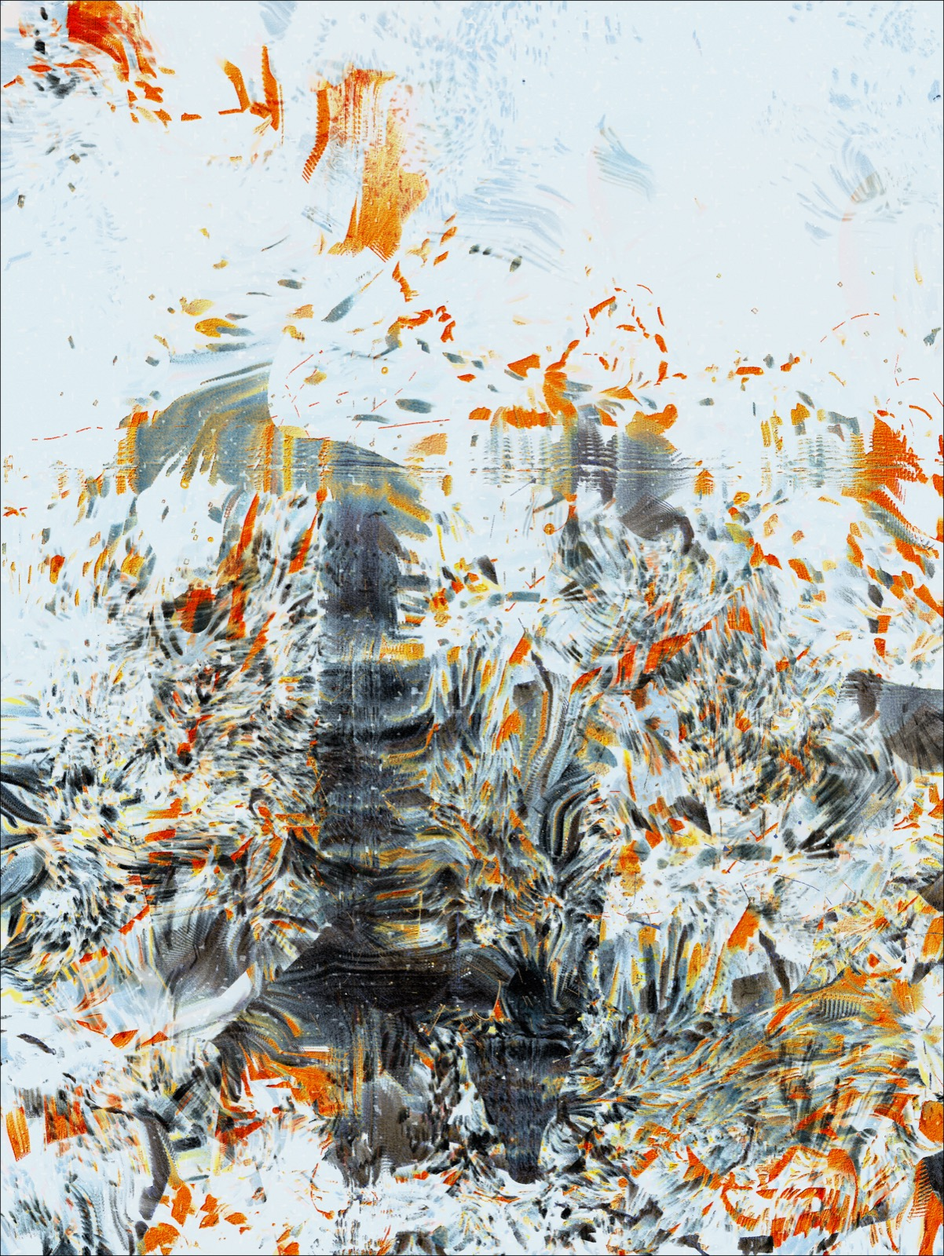
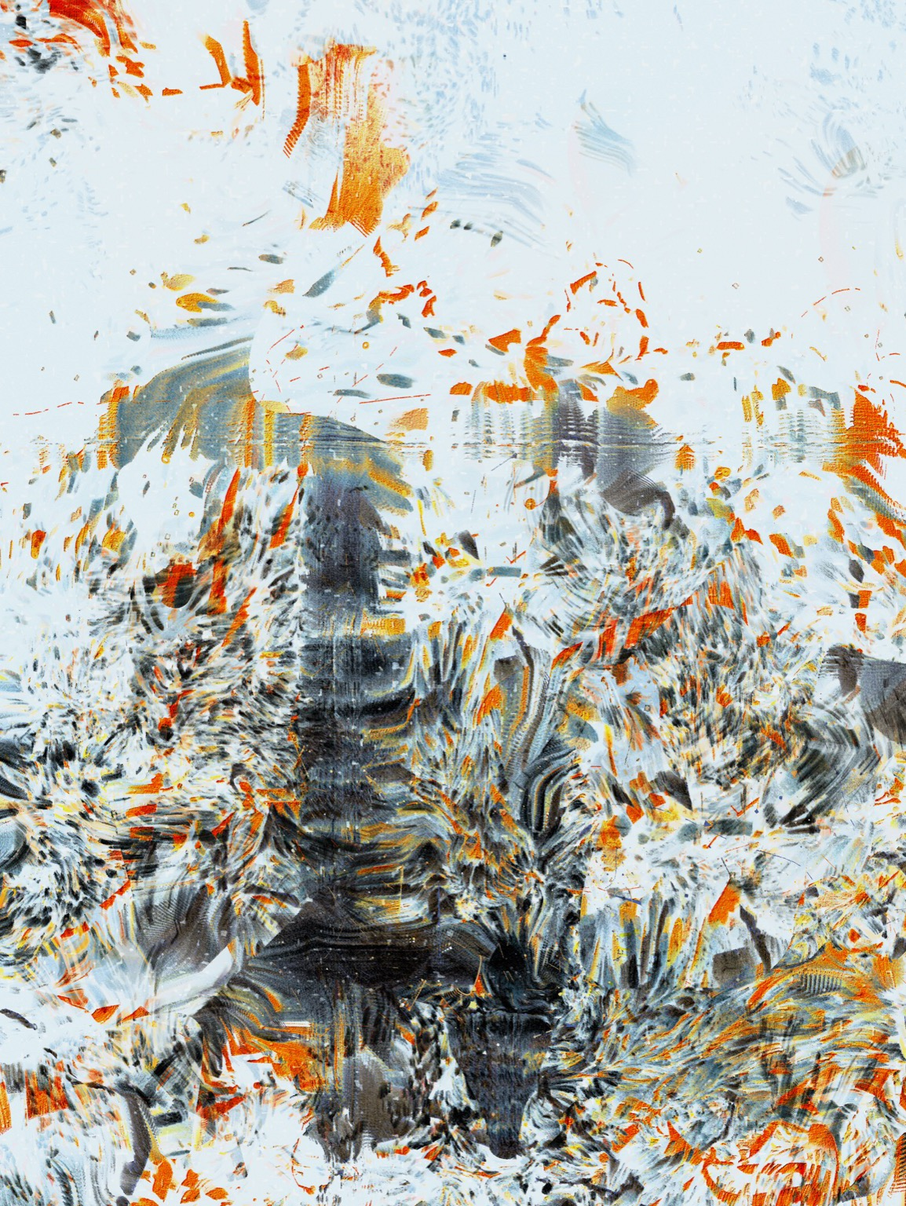
Hero polish: flat backdrop, 900ms arrow slide-in, less moire on detail
- Backdrop: dropped the radial gradients in favour of flat tones
  (#0c0c10 dark / #ece8de paper). The ambient-lighting effect that
  lingered through the palette iterations is gone; the wall reads
  as wall, not as a spot-lit stage. Theme transition still animates
  background-color between themes.

- Arrow fade: 520ms -> 900ms, and each arrow now translates in 10px
  from its edge as it fades, so the motion has direction instead of
  just appearing in place. Hover continues to nudge a further 3px.

- Pixel tearing on Paul's artwork during resize: -webkit-optimize-
  contrast was forcing sharp nearest-neighbour-ish sampling, which
  made the fine Unicode lattice alias into moire bands. Switched to
  image-rendering: auto (proper bilinear/bicubic resample), added
  translateZ(0)+backface-visibility:hidden on the <img> to keep it
  on the GPU layer so the filter chain doesn't retrigger a CPU
  resample every paint.

- Aluan's equinox: cropped 48x64px off to drop the thin black
  bands that came in from the source PNG.

diff --git a/app/globals.css b/app/globals.css
@@ -497,15 +497,12 @@ footer{background:var(--on-dark-bg);color:var(--on-dark-fg);padding:72px var(--g
 .hero{
   position:relative;padding-top:var(--nav-height);
   height:100vh;height:100dvh;overflow:hidden;
-  background:
-    radial-gradient(ellipse 70% 60% at 50% 52%, rgba(245,243,239,0.05) 0%, rgba(245,243,239,0) 65%),
-    radial-gradient(ellipse 120% 100% at 50% 50%, #14141a 0%, #0a0a0c 70%);
+  background:#0c0c10;
   transition:background-color 1200ms var(--ease-slow);
   --hero-foreground:var(--on-dark-fg);
 }
 .hero[data-theme="paper"]{
-  background:
-    radial-gradient(ellipse 80% 70% at 50% 50%, #faf8f3 0%, #ebe7de 72%, #d9d3c6 100%);
+  background:#ece8de;
   --hero-foreground:var(--ink);
 }
 .hero[data-theme="paper"] .hero-artist,
@@ -522,7 +519,7 @@ footer{background:var(--on-dark-bg);color:var(--on-dark-fg);padding:72px var(--g
 .slide-link:focus-visible{outline:none;}
 .hero-slides{position:absolute;inset:var(--nav-height) 0 0 0;display:flex;align-items:center;justify-content:center;}
 .slide{position:absolute;inset:0;display:flex;align-items:center;justify-content:center;padding:64px 56px;}
-.slide img{max-width:100%;max-height:100%;width:auto;height:auto;object-fit:contain;display:block;image-rendering:-webkit-optimize-contrast;color:transparent;font-size:0;filter:drop-shadow(0 18px 48px rgba(0,0,0,0.55)) drop-shadow(0 2px 6px rgba(0,0,0,0.35));position:relative;z-index:1;}
+.slide img{max-width:100%;max-height:100%;width:auto;height:auto;object-fit:contain;display:block;image-rendering:auto;color:transparent;font-size:0;filter:drop-shadow(0 18px 48px rgba(0,0,0,0.55)) drop-shadow(0 2px 6px rgba(0,0,0,0.35));position:relative;z-index:1;transform:translateZ(0);backface-visibility:hidden;}
 /* Wrapper inside .slide that participates in flex layout so the artwork
    respects .slide's padding (next/image fill otherwise ignores it by
    positioning absolutely to the padding edge). */
@@ -543,23 +540,24 @@ footer{background:var(--on-dark-bg);color:var(--on-dark-fg);padding:72px var(--g
    them dimly visible so they remain tappable. */
 .hero-nav{position:absolute;inset:0;pointer-events:none;z-index:3;}
 .hero-nav-btn{
-  position:absolute;top:50%;transform:translateY(-50%);
+  position:absolute;top:50%;
   background:transparent;border:0;padding:14px;cursor:pointer;
   color:var(--hero-foreground);
   opacity:0;pointer-events:none;
-  transition:opacity 520ms var(--ease-slow), transform 320ms var(--ease-slow);
+  transition:opacity 900ms var(--ease-slow), transform 900ms var(--ease-slow);
 }
 .hero-nav-btn svg{display:block;width:14px;height:14px;}
-.hero-nav-prev{left:24px;}
-.hero-nav-next{right:24px;}
+.hero-nav-prev{left:24px;transform:translate(-10px, -50%);}
+.hero-nav-next{right:24px;transform:translate(10px, -50%);}
 @media (hover:hover){
-  .hero-nav-btn[data-visible="true"]{opacity:0.78;pointer-events:auto;}
+  .hero-nav-prev[data-visible="true"]{opacity:0.8;pointer-events:auto;transform:translate(0, -50%);}
+  .hero-nav-next[data-visible="true"]{opacity:0.8;pointer-events:auto;transform:translate(0, -50%);}
   .hero-nav-btn[data-visible="true"]:hover{opacity:1;}
-  .hero-nav-prev[data-visible="true"]:hover{transform:translateY(-50%) translateX(-2px);}
-  .hero-nav-next[data-visible="true"]:hover{transform:translateY(-50%) translateX(2px);}
+  .hero-nav-prev[data-visible="true"]:hover{transform:translate(-3px, -50%);}
+  .hero-nav-next[data-visible="true"]:hover{transform:translate(3px, -50%);}
 }
 @media (hover:none){
-  .hero-nav-btn{opacity:0.5;pointer-events:auto;}
+  .hero-nav-prev,.hero-nav-next{opacity:0.5;pointer-events:auto;transform:translate(0, -50%);}
 }
 .hero-nav-btn:focus-visible{opacity:1;pointer-events:auto;outline:1px solid var(--hero-foreground);outline-offset:6px;}
 .hero-headline{display:flex;flex-direction:column;gap:4px;}
